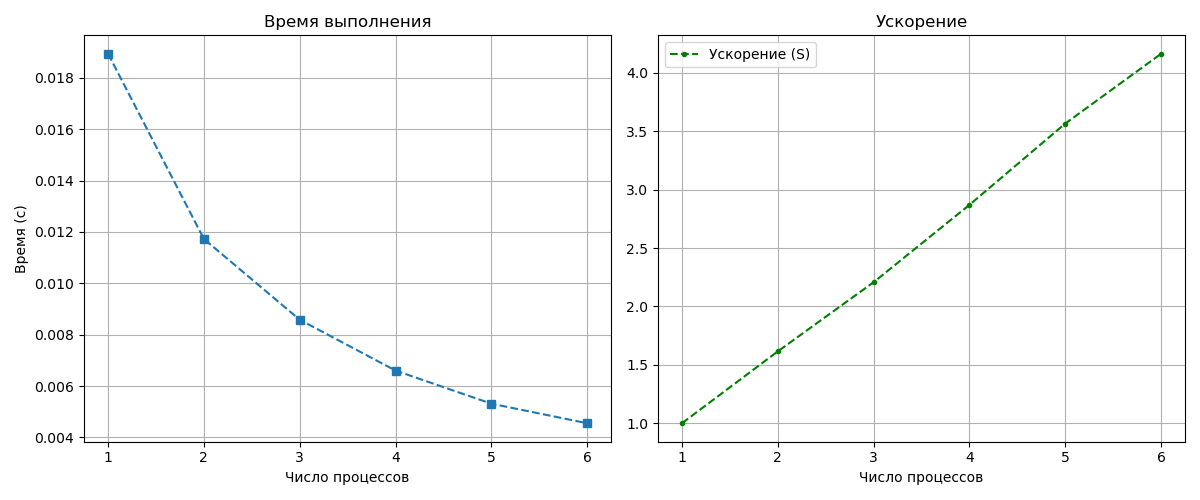
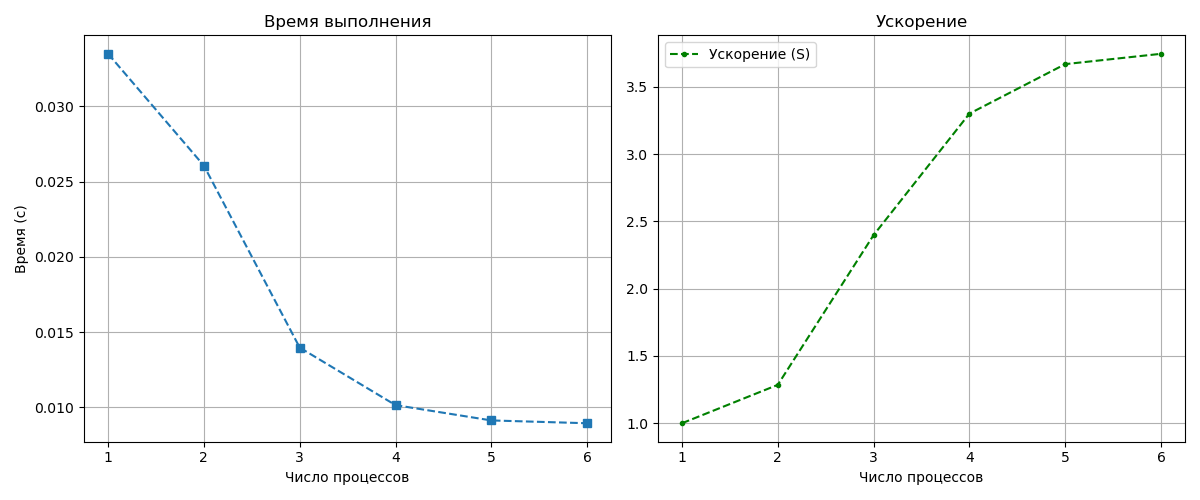
Done task for Lab#2

diff --git a/Lab#2/Task/wonderful_integral.cpp b/Lab#2/Task/wonderful_integral.cpp
@@ -1,0 +1,136 @@
+//========================================================================
+// Необходимо сделать программу которая параллельно вычислит определенный
+// интеграл sin(1/x) в пределе от некого положительного действительного
+// числа до некоторого бОльшего положительного действительного числа.
+
+// 1) Необходимо сбалансировать решение - время выполнения задачи на всех
+//    нитях должно быть одинаковым.
+// 2) Шаги интегрирования для функции sin(1/x) должны быть динамическими.
+// 3) Используйте библиотеку pthread.
+//========================================================================
+
+// g++ wonderful_integral.cpp -O3 -o wonderful_integral.x && ./wonderful_integral.x 
+
+#include <atomic>
+#include <chrono>
+#include <cmath>
+#include <iostream>
+#include <pthread.h>
+#include <thread>
+#include <vector>
+
+const int RUNS = 5;
+
+static inline double f(double x) { return std::sin(1.0 / x); }
+
+static inline double derivative_f(double x) {
+  return std::cos(1.0 / x) * (-1.0 / (x * x));
+}
+
+// адаптивный шаг по скорости роста функции
+static inline double adaptive_step(double x, double base_step) {
+  return base_step / (1.0 + 10.0 * std::fabs(derivative_f(x)));
+}
+
+struct WorkerArgs {
+  double a, b;         // границы интегрирования
+  int total_intervals; // общее количество интервалов
+  double base_step;    // начальный шаг
+  std::atomic<int>
+      *next_interval; // следующий индекс отрезка, который нужно посчитать
+  double *result;     // указатель на общий сбор
+  pthread_mutex_t *result_mutex; // мьютекс для общего сбора
+};
+
+void *worker_func(void *arg) {
+  auto *args = static_cast<WorkerArgs *>(arg);
+
+  double local_sum = 0.0;
+
+  double a = args->a;
+  double b = args->b;
+  int total_intervals = args->total_intervals;
+  auto &next_i = *(args->next_interval);
+
+  while (true) {
+    int i = next_i.fetch_add(1, std::memory_order_relaxed);
+    if (i >= total_intervals)
+      break;
+
+    double x = a + (b - a) * i / total_intervals;
+    double next_x = a + (b - a) * (i + 1) / total_intervals;
+    double dx = next_x - x;
+
+    double step = adaptive_step(x, dx);
+    int sub_steps = std::max(1, int(std::ceil(dx / step)));
+    double sub_dx = dx / sub_steps;
+
+    for (int j = 0; j < sub_steps; ++j) {
+      double sub_x = x + j * sub_dx;
+      double mid = sub_x + sub_dx * 0.5;
+      local_sum += f(mid) * sub_dx;
+    }
+  }
+
+  // блокируем запись в общий результат
+  pthread_mutex_lock(args->result_mutex);
+  *args->result += local_sum;
+  pthread_mutex_unlock(args->result_mutex);
+
+  return nullptr;
+}
+
+double parallel_integrate(double a, double b, int num_threads,
+                          int total_intervals) {
+  WorkerArgs args;
+
+  std::atomic<int> next_interval{0};
+  pthread_mutex_t result_mutex;
+  pthread_mutex_init(&result_mutex, nullptr);
+  double result = 0.0;
+
+  double base_step = (b - a) / total_intervals;
+
+  args.a = a;
+  args.b = b;
+  args.total_intervals = total_intervals;
+  args.base_step = base_step;
+  args.next_interval = &next_interval;
+  args.result = &result;
+  args.result_mutex = &result_mutex;
+
+  std::vector<pthread_t> threads(num_threads);
+  for (int i = 0; i < num_threads; ++i)
+    pthread_create(&threads[i], nullptr, worker_func, &args);
+
+  for (auto &th : threads)
+    pthread_join(th, nullptr);
+
+  pthread_mutex_destroy(&result_mutex);
+  return result;
+}
+
+int main() {
+  double a = 0.01;
+  double b = 5.0;
+  int num_threads =
+      std::thread::hardware_concurrency(); // у меня 16 логических ядер
+  int total_intervals = 1'000'000;
+
+  long long time_sum_ns = 0;
+  double last_result = 0.0;
+
+  for (int i = 0; i < RUNS; ++i) {
+    auto t0 = std::chrono::high_resolution_clock::now();
+    last_result = parallel_integrate(a, b, num_threads, total_intervals);
+    auto t1 = std::chrono::high_resolution_clock::now();
+    time_sum_ns +=
+        std::chrono::duration_cast<std::chrono::nanoseconds>(t1 - t0).count();
+  }
+
+  long long avg_ns = time_sum_ns / RUNS;
+
+  std::cout << "Integral from " << a << " to " << b << " = " << last_result
+            << std::endl;
+  std::cout << "Average time = " << avg_ns / 100000000.0 << " s\n";
+}

diff --git a/Lab#1/Task/parallel_program.cpp b/Lab#1/Task/parallel_program.cpp
@@ -109,14 +109,14 @@ int main(int argc, char **argv) {
   MPI_Gather(&sendcount, 1, MPI_INT, counts, 1, MPI_INT, 0, MPI_COMM_WORLD);
   if (rank == 0) {
     displs[0] = 0;
-    for (int i = 1; i < size; i++)
+    for (int i = 1; i < size; ++i)
       displs[i] = displs[i - 1] + counts[i - 1];
   }
   MPI_Gatherv(&u_curr[1], sendcount, MPI_DOUBLE, global, counts, displs,
               MPI_DOUBLE, 0, MPI_COMM_WORLD);
   if (rank == 0) {
     FILE *f = fopen("./solution_output/parallel_solution.dat", "w");
-    for (int i = 0; i <= M; i++)
+    for (int i = 0; i <= M; ++i)
       fprintf(f, "%g %g\n", i * h, global[i]);
     fclose(f);
     free(global);
